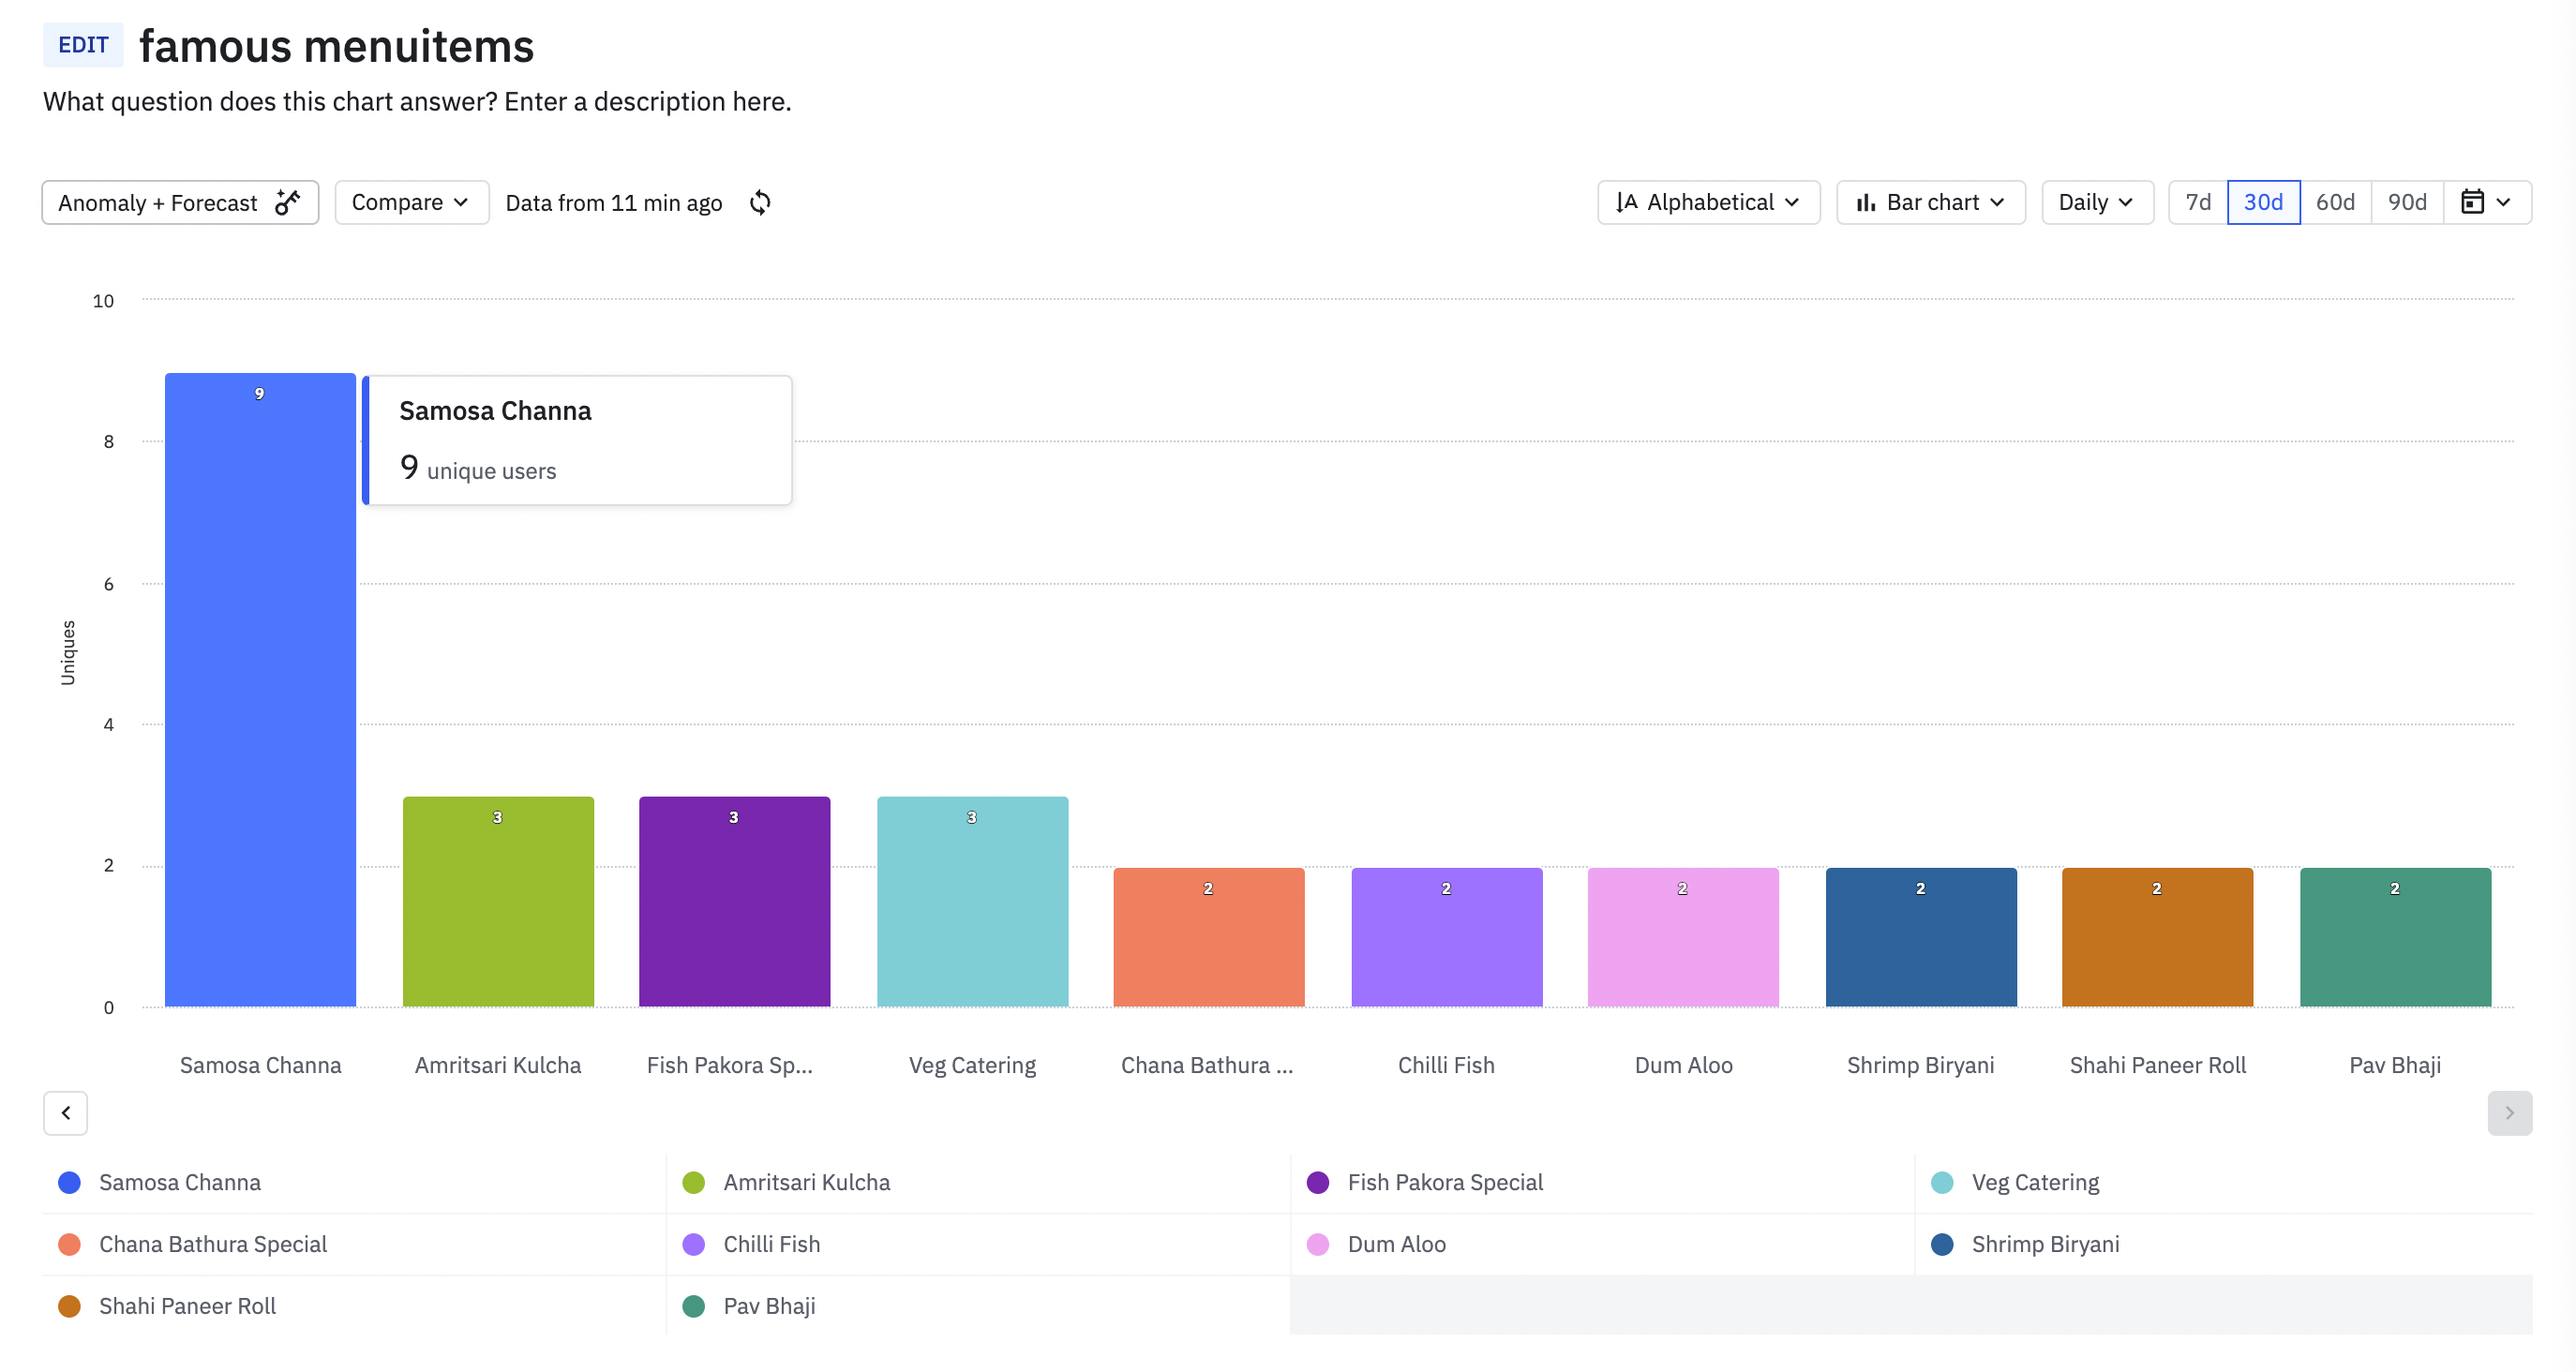
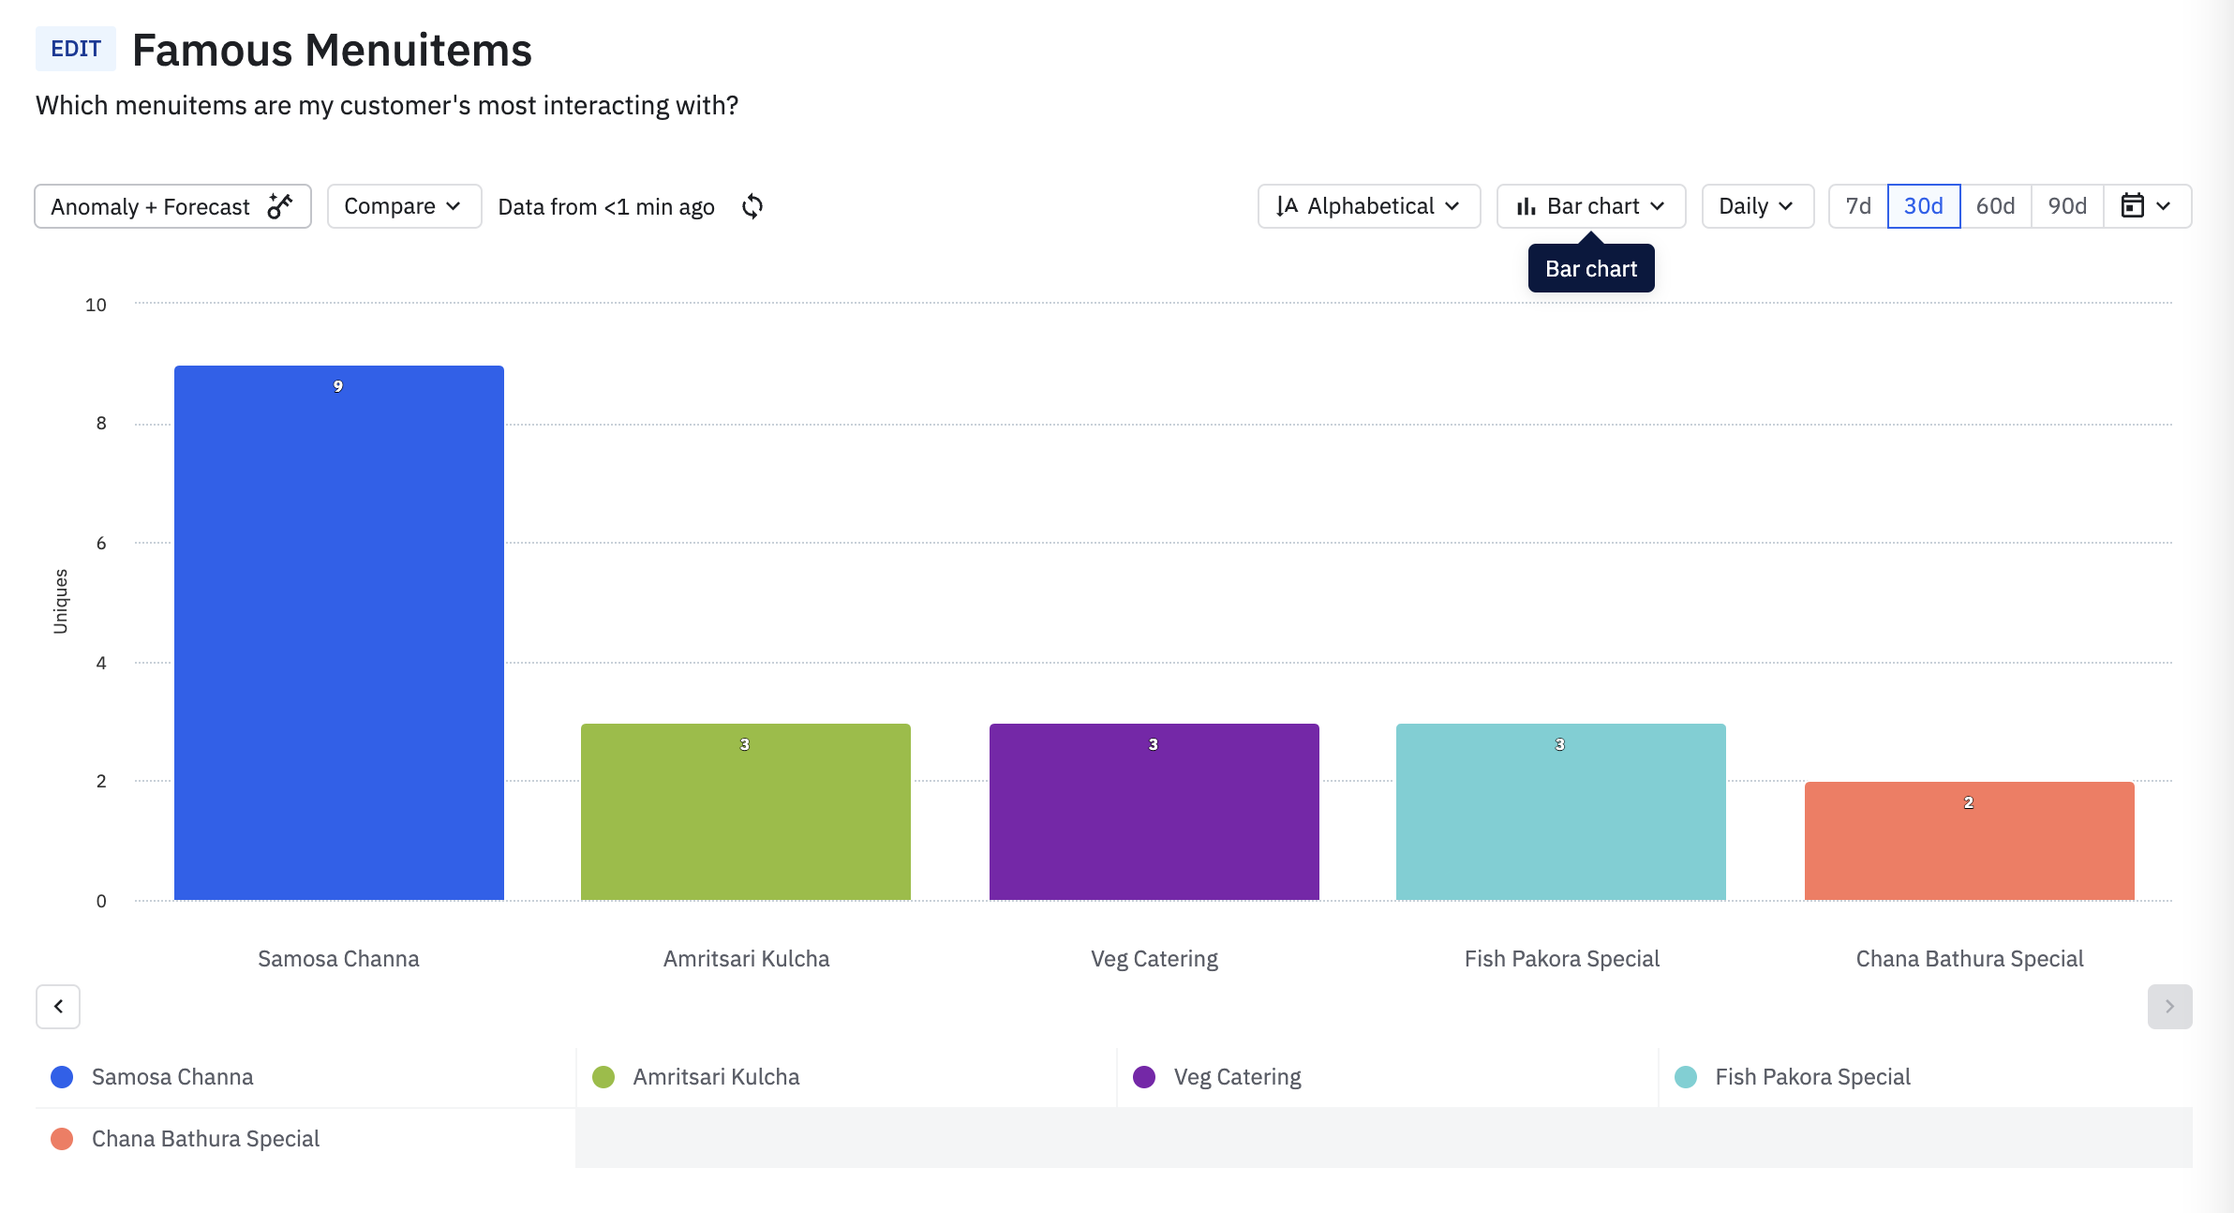
update landing page

diff --git a/mintek/online-ordering-system.html b/mintek/online-ordering-system.html
@@ -182,12 +182,12 @@
           <div class="row wow fadeInRight align-items-center">
             <div class="col-lg-6 px-0 my-16">
               <div class="img-place text-center">
-                <!-- <img src="./video/ordering_demo.mp4" alt> -->
-                <video controls class="w-100 h-100"
+                <img src="./video/ordering_demo.gif" alt>
+                <!-- <video controls class="w-100 h-100"
                   onloadstart="this.playbackRate = 1.25;" preload="metadata">
-                  <source src="./video/ordering_demo.mp4#t=10" type="video/mp4">
+                  <source src="./video/ordering_demo.mp4#t=0.1" type="video/mp4">
                   Your browser does not support the video tag.
-                </video>
+                </video> -->
               </div>
             </div>
             <div class="col-lg-6 py-3 px-0">
@@ -272,10 +272,10 @@
           <div class="row wow fadeInRight align-items-center">
             <div class="col-lg-6 py-3 px-0" id="section3-image-2">
               <div class="img-place text-center">
-                <img src="./img/category_viewed.png" alt>
+                <img src="./img/main_funnel.png" alt>
               </div>
               <div class="img-place text-center">
-                <img src="./img/main_funnel.png" alt>
+                <img src="./img/famous_menuitem.png" alt>
               </div>
             </div>
             <div class="col-lg-6 py-3 my-16 px-0">
@@ -355,10 +355,10 @@
             </div>
             <div class="col-lg-6 py-3 px-0" id="section3-image-1">
               <div class="img-place text-center">
-                <img src="./img/category_viewed.png" alt>
+                <img src="./img/main_funnel.png" alt>
               </div>
               <div class="img-place text-center">
-                <img src="./img/main_funnel.png" alt>
+                <img src="./img/famous_menuitem.png" alt>
               </div>
             </div>
           </div>
